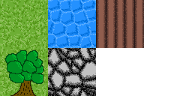
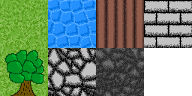
dungeon entrance & exit

Changed region(s): [[0.75, 0.0, 1.0, 0.5], [0.5, 0.5, 0.75, 1.0]]

diff --git a/src/map.js b/src/map.js
@@ -6,37 +6,34 @@ Map = {};
  ******************************************************************************/
 Map.Map = function(map, w, h) {
     var _Map = {
+        dungeon_id: null,
         map: map,
         entities: [],
-        exits: [],
+        entrances: [],
+        exit: null,
         loaded: null,
         tileset: null,
 
         init: function(w, h) {
-            this.loaded = Utils.array2d(w, h, false);
-
             return this;
         },
 
         load: function() {
+            this.loaded = Utils.array2d(w, h, false);
             this.load_visible();
+            for(var i=0; i<this.entrances.length; i++) {
+                var ent = this.entrances[i];
+                Crafty.e('Entrance').entrance(ent.id, ent.x, ent.y);
+            }
+            if(this.exit !== null && this.dungeon_id !== null) {
+                Crafty.e('Exit').exit(this.dungeon_id,
+                    this.exit.x, this.exit.y);
+            }
+
             var that = this;
             this._bind = Crafty.bind('InvalidateViewport', function() {
                 that.load_visible();
             });
-
-            // Exits
-            var id = 0;
-            for(var x=0; x<w; x++) {
-                for(var y=0; y<h; y++) {
-                    if(this.map[x][y] == 'stairs') {
-                        this.exits.push(
-                            Crafty.e('Exit').exit(id, x, y)
-                            );
-                        id++;
-                    }
-                }
-            }
         },
 
         unload: function() {
@@ -119,14 +116,39 @@ Map.tiles = {
 /*******************************************************************************
  * Crafty Components
  ******************************************************************************/
+Crafty.c('Entrance', {
+    SIZE: 2,
+    init: function(id, x, y) {
+        this.requires('2D, Collision')
+            .requires('Canvas, WiredHitBox')
+            ;
+        this.onHit('Player', function() {
+            //console.log('Transition to dungeon #' + this.id);
+            Crafty.enterScene('Dungeon', this.id);
+        });
+    },
+    entrance: function(id, x, y) {
+        this.id = id;
+        this.attr({
+                x: (x * Game.TILE_WIDTH) + (Game.TILE_WIDTH/2) - this.SIZE/2,
+                y: (y * Game.TILE_HEIGHT) + (Game.TILE_HEIGHT/2) - this.SIZE/2,
+                w: this.SIZE,
+                h: this.SIZE,
+            });
+        return this;
+    },
+});
+
+
 Crafty.c('Exit', {
     SIZE: 2,
     init: function(id, x, y) {
         this.requires('2D, Collision')
-            //.requires('Canvas, WiredHitBox')
+            .requires('Canvas, WiredHitBox')
             ;
         this.onHit('Player', function() {
-            console.log('Transition to dungeon #' + this.id);
+            //console.log('Return to overworld #' + this.id);
+            Crafty.enterScene('Overworld', this.id);
         });
     },
     exit: function(id, x, y) {

diff --git a/src/dungeon.js b/src/dungeon.js
@@ -4,7 +4,9 @@ Dungeon = {};
 Dungeon.generate = function(w, h) {
     var d = Dungeon.Dungeon(w, h);
     d.generate();
-    return Map.Map(d.map, w, h);
+    var map = Map.Map(d.map, w, h);
+    map.exit = d.exit;
+    return map;
 };
 
 
@@ -92,6 +94,7 @@ Dungeon._Dungeon = {
     tree: null,
     rooms: null,
     tunnels: null,
+    exit: null,
 
     init: function(w, h) {
         this.w = w;
@@ -134,7 +137,7 @@ Dungeon._Dungeon = {
             // Vertical
             if(tun[0].x == tun[1].x) {
                 for(var y = tun[0].y; y < tun[1].y; y++) {
-                    for(var x = tun[0].x - 2; x < tun[0].x + 2; x++) {
+                    for(var x = tun[0].x - 1; x < tun[0].x + 1; x++) {
                         map[x][y] = 'floor';
                     }
                 }
@@ -142,12 +145,19 @@ Dungeon._Dungeon = {
             // Horizontal
             else if(tun[0].y == tun[1].y) {
                 for(var x = tun[0].x; x < tun[1].x; x++) {
-                    for(var y = tun[0].y - 2; y < tun[0].y + 2; y++) {
+                    for(var y = tun[0].y - 1; y < tun[0].y + 1; y++) {
                         map[x][y] = 'floor';
                     }
                 }
             }
         }
+        // Create exit
+        var room = this.rooms[0];
+        this.exit = {
+            x: Math.floor(room.x + room.w / 2),
+            y: Math.floor(room.y + room.h / 2),
+        }
+        map[this.exit.x][this.exit.y] = 'stairs'
         this.map = map;
     },
 

diff --git a/src/scenes.js b/src/scenes.js
@@ -1,21 +1,43 @@
-Crafty.scene('Game', function () {
-    Crafty.background('black');
-    Crafty.viewport.clampToEntities = false;
-    Player.init();
-
+Crafty.scene('Overworld', function (id) {
     Game.set_map(Game.overworld);
+    if(id !== undefined) {
+        var start = {
+            x: Game.overworld.entrances[id].x * Game.TILE_WIDTH,
+            y: (Game.overworld.entrances[id].y+1) * Game.TILE_HEIGHT,
+        }
+        Player.player.attr(start);
+    }
+    Crafty.viewport.follow(Player.player);
     //MiniMap.draw();
     //Crafty.e('Skelly').spawn(300, 300);
     //Crafty.e('Gobbo').spawn(950, 750);
 });
 
 
+Crafty.scene('Dungeon', function(id) {
+    if(Game.dungeons[id] === undefined) {
+        Game.dungeons[id] = Dungeon.generate(100, 100);
+        Game.dungeons[id].dungeon_id = id;
+    }
+    Game.set_map(Game.dungeons[id]);
+
+    var start = {
+        x: Game.dungeons[id].exit.x * Game.TILE_WIDTH,
+        y: (Game.dungeons[id].exit.y+1) * Game.TILE_HEIGHT,
+    }
+    Player.player.attr(start);
+    Crafty.viewport.follow(Player.player);
+});
+
+
 Crafty.scene('Loading', function () {
     Crafty.background('black');
+    Crafty.viewport.clampToEntities = false;
 
     Crafty.load(Game.assets,
         function () { // onLoad
-            Crafty.enterScene('Game');
+            Player.init();
+            Crafty.enterScene('Overworld');
         },
         function (e) { // onProgress
             console.log(e);

diff --git a/src/game.js b/src/game.js
@@ -6,14 +6,13 @@ Game = {
     MAP_WIDTH: 300,
     MAP_HEIGHT: 300,
     SEED: 1928,
+    dungeons: {},
 
     current: null,
 
     start: function() {
         Crafty.init(1024, 768);
-        //this.overworld = Overworld.generate(Game.MAP_WIDTH, Game.MAP_HEIGHT);
-        this.overworld = Dungeon.generate(50, 50);
-
+        this.overworld = Overworld.generate(Game.MAP_WIDTH, Game.MAP_HEIGHT)
         Crafty.enterScene('Loading');
     },
 
@@ -65,8 +64,8 @@ Game = {
                     "tile_town":  [2, 0],
                     "tile_tree":  [0, 1],
                     "tile_rock":  [1, 1],
-                    "tile_wall":  [0, 1],
-                    "tile_floor": [0, 0],
+                    "tile_wall":  [3, 0],
+                    "tile_floor": [2, 1],
                 },
             },
         },

diff --git a/src/player.js b/src/player.js
@@ -32,11 +32,11 @@ Crafty.c('Player', {
     dir: 'down',
     init: function() {
         this.requires('Entity, Fourway, Collision, SpriteAnimation, Health')
-            .requires('spr_player')
+            .requires('Persist, spr_player')
             .fourway(4)
             .attr({
-                x: 100,
-                y: 100,
+                x: 2200,
+                y: 8800,
                 z: 10,
                 w: Game.PLAYER_WIDTH,
                 h: Game.PLAYER_HEIGHT})
@@ -278,7 +278,6 @@ Crafty.c('Fireball', {
 
 Player.init = function () {
     this.player = Crafty.e('Player');
-    Crafty.viewport.follow(this.player);
 }
 
 })();

diff --git a/src/overworld.js b/src/overworld.js
@@ -5,8 +5,21 @@ Overworld = {};
  * Overworld Generation
  *****************************************************************************/
 Overworld.generate = function(w, h) {
-    var map = gen_area(w, h);
-    return Map.Map(map, w, h);
+    var gmap = gen_area(w, h);
+    var map = Map.Map(gmap, w, h);
+
+    // Dungeon entrances
+    var id = 0;
+    for(var x=0; x<w; x++) {
+        for(var y=0; y<h; y++) {
+            if(gmap[x][y] == 'stairs') {
+                map.entrances.push( {id:id, x:x, y:y} );
+                id++;
+            }
+        }
+    }
+
+    return map;
 };
 
 
